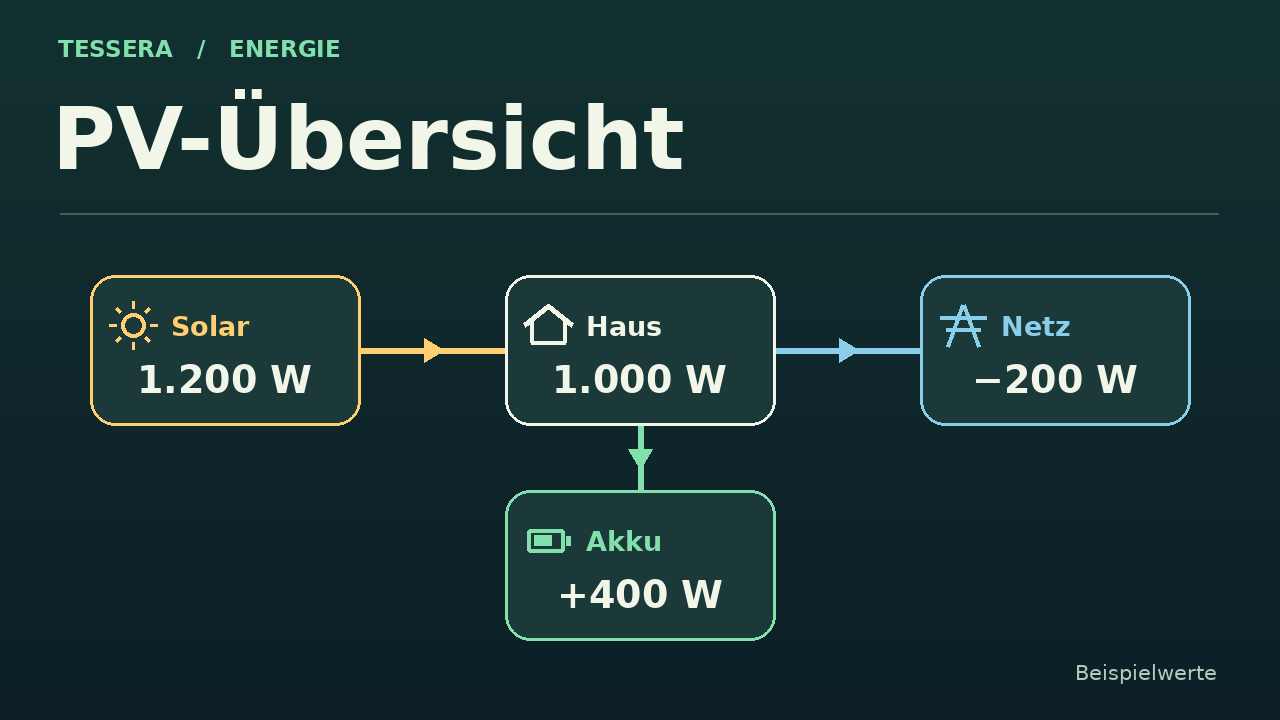
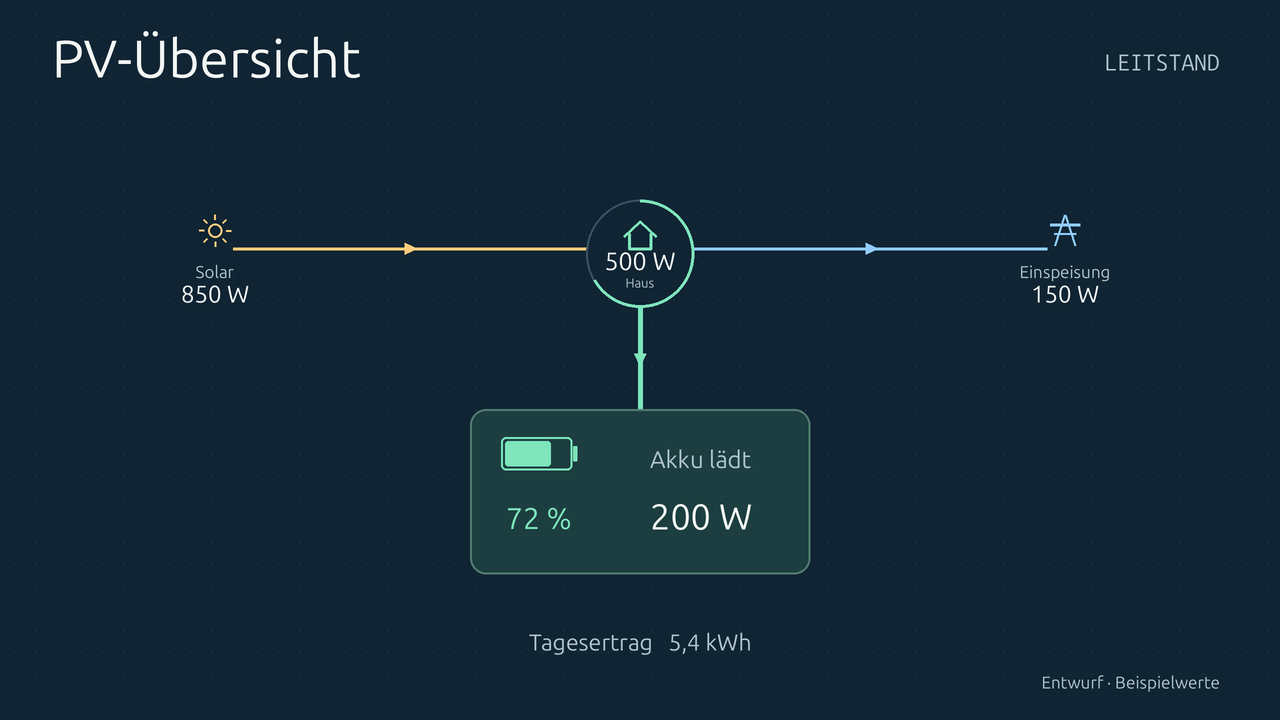
Group battery power and charge below the home dial (0.3.0)

diff --git a/components/pv_overview/pv_overview.cpp b/components/pv_overview/pv_overview.cpp
@@ -35,9 +35,10 @@ class OverviewTile : public tessera::Tile {
     const bool second_row = wanted_ > 3;
     const int row_count = second_row ? 2 : 1;
     flow_ = !compact && width_ >= 3 * card_min_w + 2 * arrow_space &&
-            height_ >= row_count * card_min_h + (second_row ? arrow_space : 0);
+            height_ >= row_count * card_min_h + (second_row ? arrow_space + 3 * gap : 0) + (configured_[5] ? bh + gap : 0) &&
+            (width_ - 2 * arrow_space) / 3 >= card_min_h + gap;
     if (flow_) {
-      create_flow(c.parent, arrow_space, second_row);
+      create_flow(c.parent, arrow_space);
       return;
     }
     const int min_cell_h = bh + ui::line_height(Font::TITLE) + gap;
@@ -77,38 +78,93 @@ class OverviewTile : public tessera::Tile {
   void on_tick(uint32_t epoch) override { paint(epoch); }
   void on_theme() override {
     for (int i = 0; i < 6; ++i) if (caption_[i]) ui::set_color(caption_[i], theme::MUTED);
+    if (pack_) ui::set_fill(pack_, Tone::NORMAL, theme::RAISED);
+    if (flow_) lv_obj_set_style_border_color(panels_[2], ui::color(theme::ACCENT), 0);
     if (footer_) ui::set_color(footer_, theme::MUTED);
     paint(tessera::epoch());
   }
  private:
-  void create_flow(lv_obj_t *parent, int lane, bool second_row) {
-    // The house sits between the two AC sources. Only power channels get links.
-    static constexpr int columns[] = {0, 2, 1, 1, 2, 0};
-    static constexpr uint32_t symbols[] = {0xF0D9B, 0xF0D3E, 0xF02DC, 0xF12A3, 0xF0079, 0xF00ED};
+  void create_flow(lv_obj_t *parent, int lane) {
+    const bool has_pack = configured_[3] || configured_[4];
+    const int gap = std::max(1, ui::px(8));
+    const int body = ui::line_height(Font::BODY);
+    const int title = ui::line_height(Font::TITLE);
+    const int icon = ui::line_height(Font::ICON_SMALL);
+    const int icon_gap = std::max(gap, ui::px(12));
+    const int pack_h = std::max(icon + icon_gap + title, body + gap + title) + 2 * gap;
+    const int day_h = configured_[5] ? body + gap : 0;
+    const int top_h = height_ - day_h - (has_pack ? pack_h + lane : 0);
+    const int diameter = std::min(top_h, (width_ - 2 * lane) / 3);
+    const int cy = top_h / 2;
+    const int cx = width_ / 2;
+    cell_w_ = (width_ - diameter - 2 * lane) / 2;
+    cell_h_ = top_h;
     visible_ = wanted_;
-    cell_w_ = (width_ - 2 * lane) / 3;
-    cell_h_ = second_row ? (height_ - lane) / 2 : height_;
-    for (int j = 0; j < visible_; ++j) {
-      const int i = order_[j];
-      x_[i] = columns[i] * (cell_w_ + lane);
-      y_[i] = i < 3 ? 0 : cell_h_ + lane;
-      auto *panel = panels_[i] = ui::block(parent, theme::RAISED);
-      lv_obj_set_size(panel, cell_w_, cell_h_);
-      lv_obj_set_pos(panel, x_[i], y_[i]);
+    auto *hub = panels_[2] = ui::block(parent, theme::RAISED);
+    lv_obj_set_pos(hub, cx - diameter / 2, cy - diameter / 2);
+    lv_obj_set_size(hub, diameter, diameter);
+    lv_obj_set_style_radius(hub, LV_RADIUS_CIRCLE, 0);
+    lv_obj_set_style_border_width(hub, std::max(1, ui::px(2)), 0);
+    lv_obj_set_style_border_color(hub, ui::color(theme::ACCENT), 0);
+    const int centers[] = {cell_w_ / 2, width_ - cell_w_ / 2, cx};
+    const uint32_t symbols[] = {0xF0599, 0xF0D3E, 0xF02DC};
+    for (int i = 0; i < 3; ++i) {
+      int w = i == 2 ? diameter * 4 / 5 : cell_w_;
+      flow_width_[i] = w;
+      x_[i] = centers[i] - w / 2;
       icons_[i] = ui::label(parent, Font::ICON_SMALL, theme::ACCENT);
       ui::set_text(icons_[i], ui::icon(symbols[i]));
       caption_[i] = ui::label(parent, Font::BODY, theme::MUTED);
-      value_[i] = ui::label(parent, Font::VALUE, theme::INK);
+      value_[i] = ui::label(parent, Font::TITLE, theme::INK);
       for (auto *part : {icons_[i], caption_[i], value_[i]}) {
-        lv_obj_set_width(part, cell_w_);
+        lv_obj_set_width(part, w);
         lv_obj_set_style_text_align(part, LV_TEXT_ALIGN_CENTER, 0);
       }
     }
-    const int mid = cell_h_ / 2;
-    const int middle_x = x_[2] + cell_w_ / 2;
-    add_link(parent, 0, cell_w_ + lane / 2, mid, lane, false);
-    add_link(parent, 1, x_[1] - lane / 2, mid, lane, false);
-    if (configured_[3]) add_link(parent, 3, middle_x, cell_h_ + lane / 2, lane, true);
+    const int hub_left = cx - diameter / 2;
+    add_link(parent, 0, hub_left - lane / 2, cy, lane, false);
+    add_link(parent, 1, hub_left + diameter + lane / 2, cy, lane, false);
+    if (has_pack) {
+      const int pw = std::max(ui::text_width("9.99 kW", Font::TITLE), ui::text_width(plugin_->text("discharging"), Font::BODY));
+      const int sw = std::max(ui::text_width("100 %", Font::TITLE), ui::text_width(ui::icon(0xF0079), Font::ICON_SMALL));
+      const int left_w = configured_[4] ? sw : icon;
+      const int pack_w = left_w + (configured_[3] ? pw + 2 * gap : 0) + 4 * gap;
+      const int bx = cx - pack_w / 2, by = top_h + lane;
+      pack_ = ui::block(parent, theme::RAISED);
+      lv_obj_set_pos(pack_, bx, by);
+      lv_obj_set_size(pack_, pack_w, pack_h);
+      const int left_x = bx + 2 * gap;
+      pack_icon_ = ui::label(parent, Font::ICON_SMALL, theme::ACCENT);
+      lv_obj_set_width(pack_icon_, left_w);
+      lv_obj_set_style_text_align(pack_icon_, LV_TEXT_ALIGN_CENTER, 0);
+      lv_obj_set_pos(pack_icon_, left_x, by + (configured_[4] ? gap : (pack_h - icon) / 2));
+      if (configured_[4]) {
+        value_[4] = ui::label(parent, Font::TITLE, theme::INK);
+        lv_obj_set_pos(value_[4], left_x, by + gap + icon + icon_gap);
+        lv_obj_set_width(value_[4], left_w);
+        lv_obj_set_style_text_align(value_[4], LV_TEXT_ALIGN_CENTER, 0);
+        flow_width_[4] = left_w;
+      }
+      if (configured_[3]) {
+        const int right = left_x + left_w + 2 * gap;
+        caption_[3] = ui::label(parent, Font::BODY, theme::MUTED);
+        value_[3] = ui::label(parent, Font::TITLE, theme::INK);
+        lv_obj_set_pos(caption_[3], right, by + gap);
+        lv_obj_set_pos(value_[3], right, by + gap + body + gap);
+        lv_obj_set_width(caption_[3], pw);
+        lv_obj_set_width(value_[3], pw);
+        flow_width_[3] = pw;
+        const int start = cy - diameter / 2 + diameter;
+        add_link(parent, 3, cx, (start + by) / 2, by - start, true);
+      }
+    }
+    if (configured_[5]) {
+      value_[5] = ui::label(parent, Font::BODY, theme::MUTED);
+      lv_obj_set_width(value_[5], width_);
+      lv_obj_set_pos(value_[5], 0, height_ - body);
+      lv_obj_set_style_text_align(value_[5], LV_TEXT_ALIGN_CENTER, 0);
+    }
+    hub_diameter_ = diameter;
   }
 
   void add_link(lv_obj_t *parent, int i, int x, int y, int lane, bool vertical) {
@@ -142,6 +198,15 @@ class OverviewTile : public tessera::Tile {
   }
   void paint(uint32_t epoch) {
     if (!configured_[2]) readings_[2] = model::home_balance(readings_[0], readings_[1], epoch, max_age_);
+    if (pack_icon_) {
+      uint32_t glyph = 0xF0091;  // unknown charge
+      if (model::status(readings_[4], epoch, max_age_) == Status::OK) {
+        int step = static_cast<int>(readings_[4].value / 10);
+        glyph = step == 0 ? 0xF008E : step == 10 ? 0xF0079 : 0xF0079 + step;
+      }
+      ui::set_text(pack_icon_, ui::icon(glyph));
+      ui::set_tone(pack_icon_, Tone::GOOD, theme::INK);
+    }
     bool problem = false;
     for (int j = 0; j < visible_; ++j) {
       int i = order_[j];
@@ -164,22 +229,41 @@ class OverviewTile : public tessera::Tile {
         value = plugin_->text(key);
         tone = Tone::BUSY;
       }
+      if (flow_ && i >= 3) {
+        if (i == 5) {
+          ui::set_text(value_[5], label + "  " + value);
+          ui::set_color(value_[5], theme::MUTED);
+          continue;
+        }
+        if (i == 3) {
+          if (state == Status::OK && direction_[3] == 0) label = plugin_->text("standby");
+          ui::set_text(caption_[3], label);
+          paint_link(3, state, tone);
+        }
+        Font font = ui::text_width(value, Font::TITLE) <= flow_width_[i] ? Font::TITLE : Font::BODY;
+        ui::set_font(value_[i], font);
+        ui::set_text(value_[i], value);
+        ui::set_tone(value_[i], tone, theme::INK);
+        continue;
+      }
       const int bh = ui::line_height(Font::BODY);
       const int icon_h = flow_ ? ui::line_height(Font::ICON_SMALL) + ui::px(2) : 0;
-      const bool show_caption = cell_h_ >= bh * 2;
-      const int available_h = show_caption ? cell_h_ - bh - ui::px(2) - icon_h : cell_h_;
+      const int room_w = flow_ ? flow_width_[i] : cell_w_;
+      const int room_h = flow_ && i == 2 ? hub_diameter_ - ui::px(6) : cell_h_;
+      const bool show_caption = room_h >= bh * 2;
+      const int available_h = show_caption ? room_h - bh - ui::px(2) - icon_h : room_h;
       Font face = Font::BODY;
       for (Font candidate : {Font::VALUE, Font::HEADLINE, Font::TITLE, Font::BODY}) {
-        if (ui::text_width(value, candidate) <= cell_w_ && ui::line_height(candidate) <= available_h) { face = candidate; break; }
+        if (ui::text_width(value, candidate) <= room_w && ui::line_height(candidate) <= available_h) { face = candidate; break; }
       }
-      if (ui::text_width(value, face) > cell_w_) value = "--";
+      if (ui::text_width(value, face) > room_w) value = "--";
       ui::set_font(value_[i], face);
       ui::set_text(value_[i], value);
       ui::set_tone(value_[i], tone, theme::INK);
       const int total = icon_h + ui::line_height(face) + (show_caption ? bh + ui::px(2) : 0);
       const int top = y_[i] + std::max(0, (cell_h_ - total) / 2);
       if (flow_) {
-        ui::set_fill(panels_[i], Tone::NORMAL, theme::RAISED);
+        if (panels_[i]) ui::set_fill(panels_[i], Tone::NORMAL, theme::RAISED);
         ui::set_tone(icons_[i], i == 2 ? Tone::ACCENT : tone, theme::INK);
         lv_obj_set_pos(icons_[i], x_[i], top);
         paint_link(i, state, tone);
@@ -201,6 +285,9 @@ class OverviewTile : public tessera::Tile {
   std::array<int, 6> direction_{}, order_{}, x_{}, y_{};
   std::array<lv_obj_t *, 6> caption_{}, value_{};
   std::array<lv_obj_t *, 6> panels_{}, icons_{}, tracks_{}, arrows_{};
+  lv_obj_t *pack_ = nullptr, *pack_icon_ = nullptr;
+  int hub_diameter_ = 0;
+  std::array<int, 6> flow_width_{};
   bool flow_ = false;
   lv_obj_t *footer_ = nullptr;
   int width_ = 0, height_ = 0, cell_w_ = 0, cell_h_ = 0, wanted_ = 0, visible_ = 0;

diff --git a/README.de.md b/README.de.md
@@ -31,6 +31,8 @@ Bei mehreren Wechselrichtern einen Summensensor auswählen. Für mehrere Akkus s
 
 ## Größenanpassung
 
+Unter dem runden Haus zeigt ein zentriertes Akkufeld Ladestand, Laderichtung und Leistung. Der Abstand unter dem Akkusymbol skaliert mit dem Display. Für beide Werte die Sensoren Akkuleistung und Akkuladestand zuordnen.
+
 Im Modus **Automatisch** zeigt eine große Kachel das Haus zwischen Solarmodul und Stromnetz. Pfeile zeigen die Richtung am Netzanschluss und am optionalen Akku. Bei Stillstand oder fehlenden Messwerten bleibt die Verbindung ohne Pfeil. Tagesertrag und Ladestand erscheinen als Zusatzwerte. Kleinere Kacheln und der Modus **Kompakt** verwenden die Zahlenansicht. Angezeigt wird in der Reihenfolge Solar, Netz, Haus, Akkuleistung, Ladestand, Tagesertrag. Sehr kleine Kacheln zeigen nur Solar. Größere Kacheln zeigen weitere Werte; nicht ausgewählte optionale Sensoren entfallen. **Automatisch** zeigt bis zu sechs Werte, **Kompakt** bis zu vier. Eine Fußzeile weist bei genügend Platz auf ausgelassene Werte hin.
 
 Die Darstellung verwendet Tessera-Schriften und Hell-/Dunkelfarben. Der Layout-Editor zeigt einen Platzhalter; die individuelle Darstellung entsteht erst auf dem Display. Die Zollgröße muss im Plugin nicht festgelegt werden.
@@ -41,4 +43,4 @@ Die Darstellung verwendet Tessera-Schriften und Hell-/Dunkelfarben. Der Layout-E
 
 ## Entwicklungsstand
 
-Version 0.2.0, lokal nutzbare Testfassung. Details und reproduzierbare Prüfkommandos stehen in `VALIDATION.md`. Es gibt noch keinen erfolgreichen vollständigen Firmware-Build und keine Prüfung auf realen 4-, 7- oder 10,1-Zoll-Displays.
+Version 0.3.0, lokal nutzbare Testfassung. Details und reproduzierbare Prüfkommandos stehen in `VALIDATION.md`. Es gibt noch keinen erfolgreichen vollständigen Firmware-Build und keine Prüfung auf realen 4-, 7- oder 10,1-Zoll-Displays.

diff --git a/README.md b/README.md
@@ -33,6 +33,8 @@ For two solar inverters choose an existing sum sensor, or create a Home Assistan
 
 ## Size and appearance
 
+The central home dial connects to a compact battery panel sized for its readings. Select battery power and charge to show both. The charge icon sits above the percentage with a screen-scaled gap.
+
 The same plugin runs on all Tessera boards; there are no hard-coded 4-, 7- or 10.1-inch layouts. Large automatic tiles place the house between solar and grid, with a battery branch when configured. Live arrows indicate import/export and charging/discharging. Smaller tiles and Compact mode use numeric cells. Selected optional inputs are included as room permits. Order: solar, grid, home, battery power, charge, today. Very small tiles show only solar; increasing the tile reveals more readings. Optional inputs left empty use no cell. The full-page option and sizes 1x1 through 9x9 are offered only where they fit Tessera's grid.
 
 Start with a full page on a 4-inch screen. Try a medium-to-large tile on 7-inch and 10.1-inch screens and adjust in Layout. **Compact** limits the view to the first four readings; **Automatic** allows all six. A footer, when there is enough room, tells you when readings are omitted. Light/dark colors and fonts follow Tessera. The app editor shows a placeholder; the custom appearance is drawn by firmware on the display.

diff --git a/CHANGELOG.md b/CHANGELOG.md
@@ -1,5 +1,8 @@
 # Changelog
 
+## 0.3.0 - 2026-11-20
+- The control-room view groups battery charge and power below the central house. The battery panel fits its contents and leaves more space below the icon.
+
 ## 0.2.0 - 2026-11-20
 - Large automatic tiles show directional energy flows between solar, home, grid and optional battery.
 - Leave the home sensor empty to calculate solar power plus signed grid power. Existing home sensor selections take precedence.
